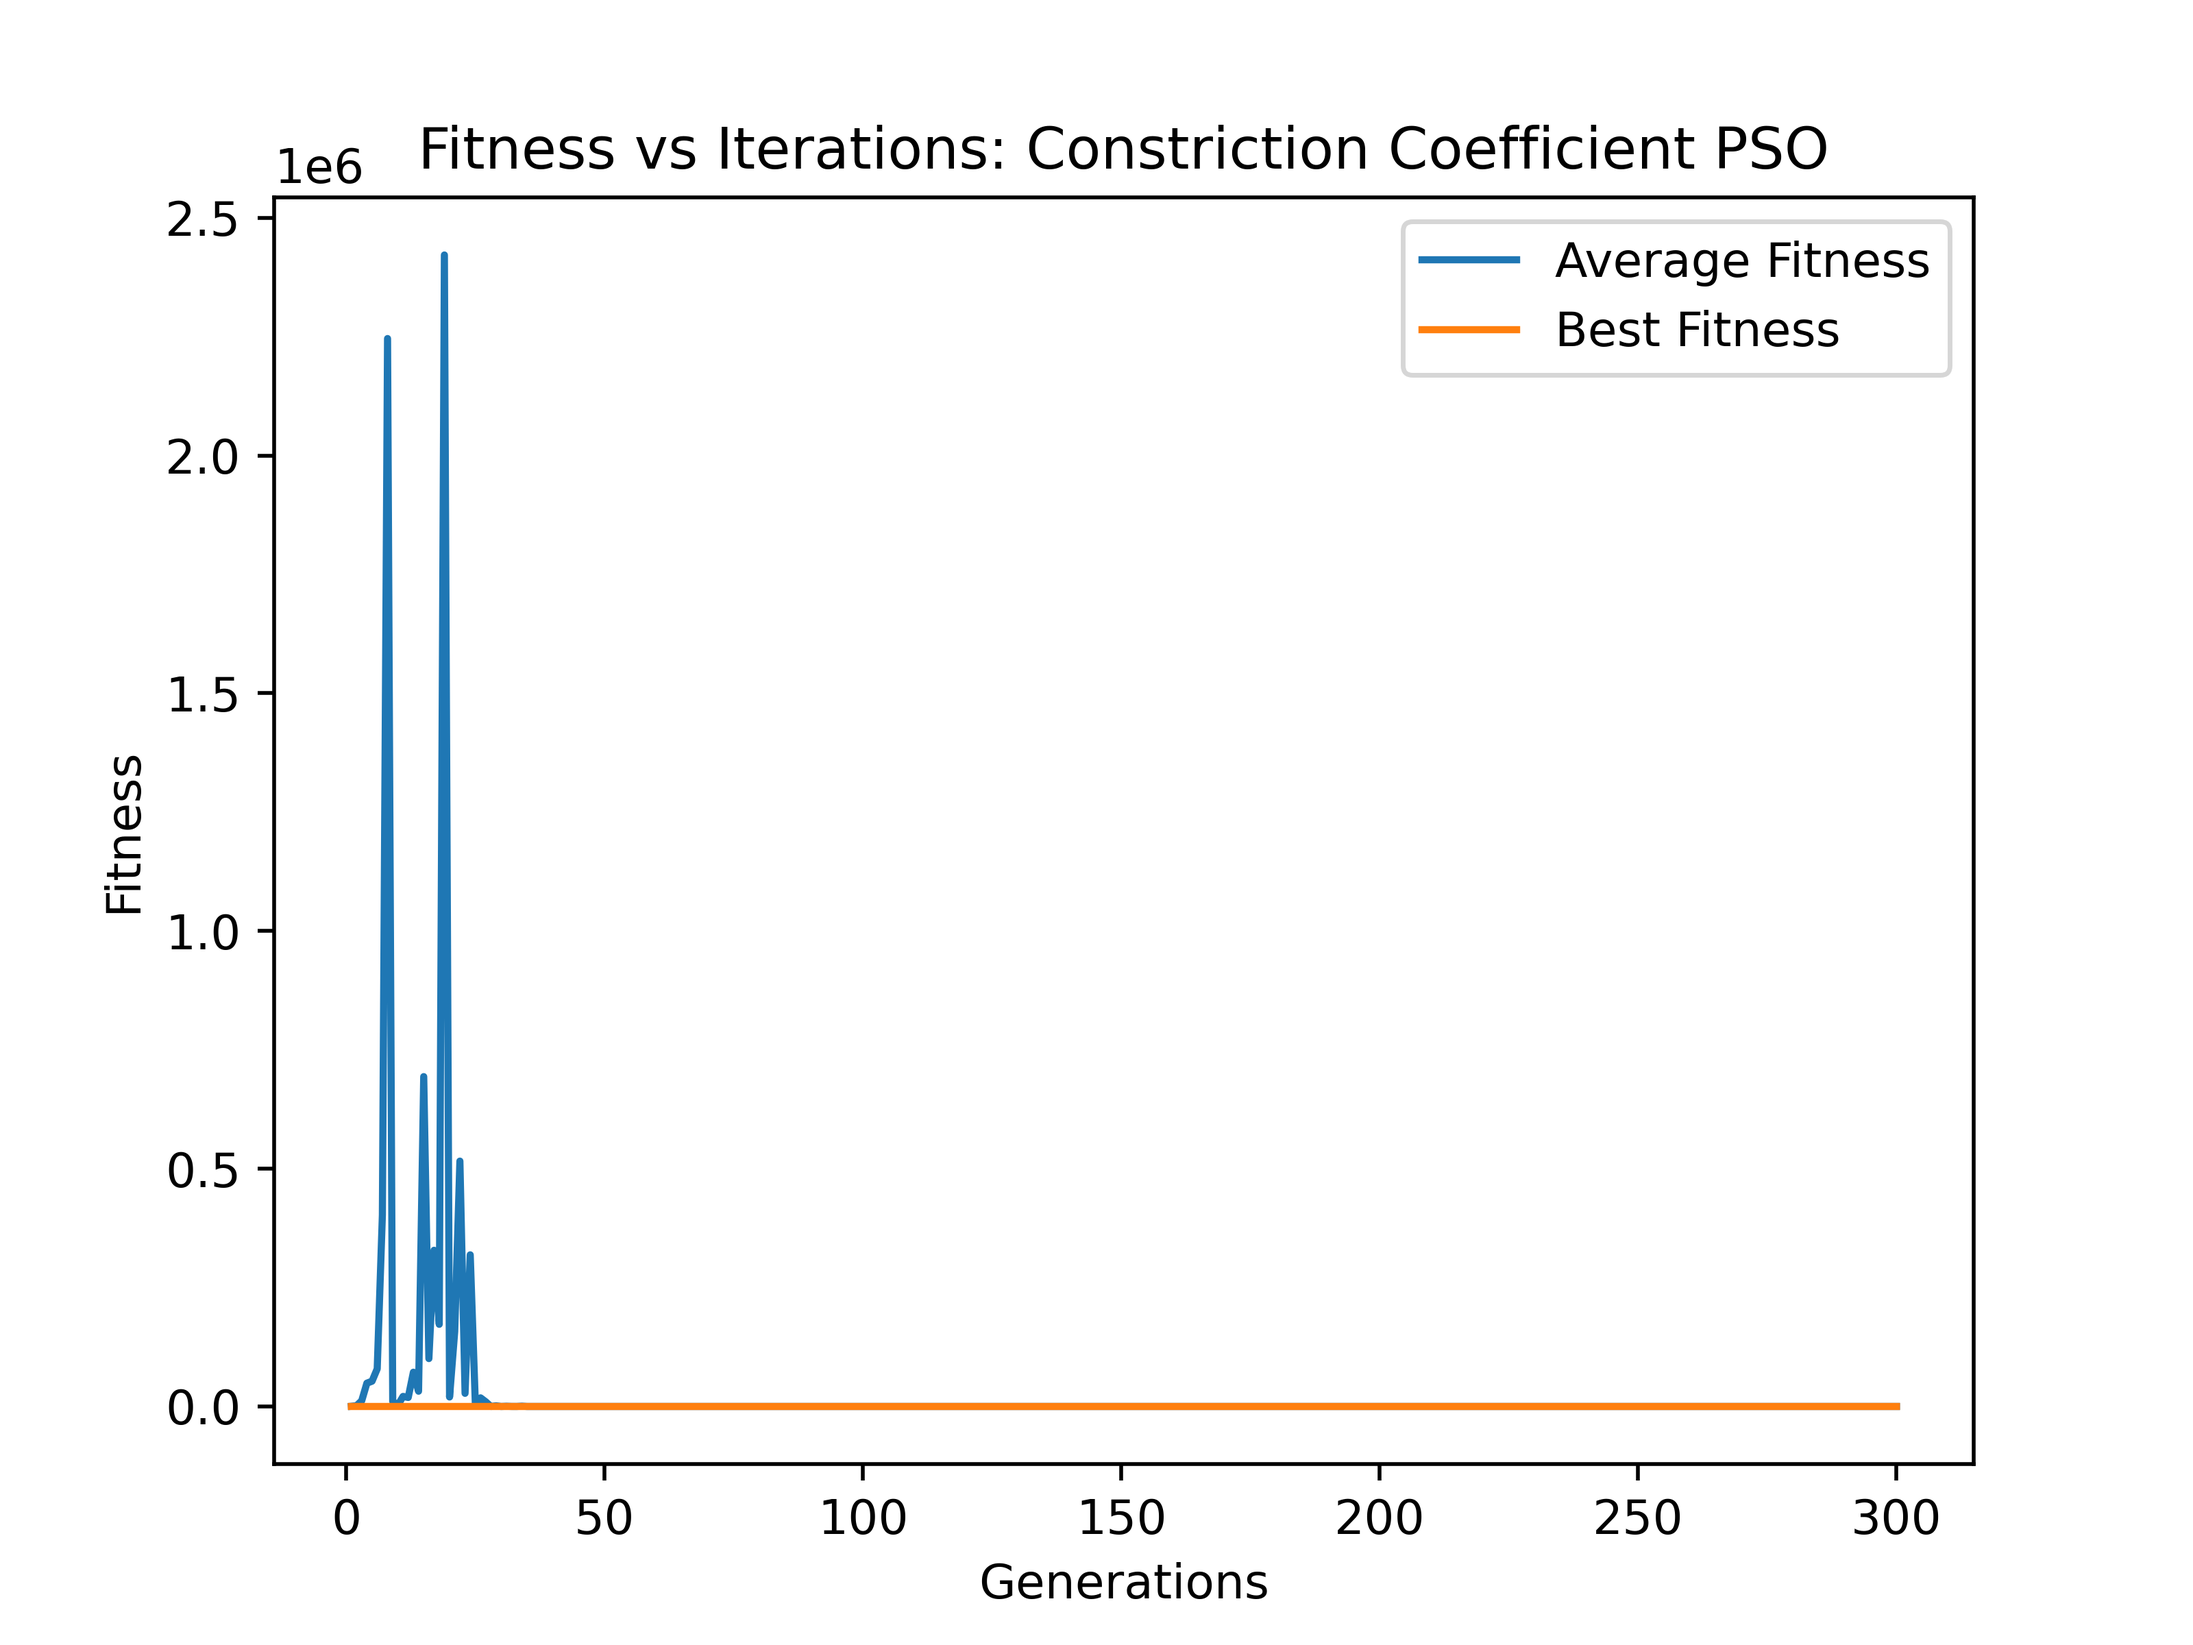
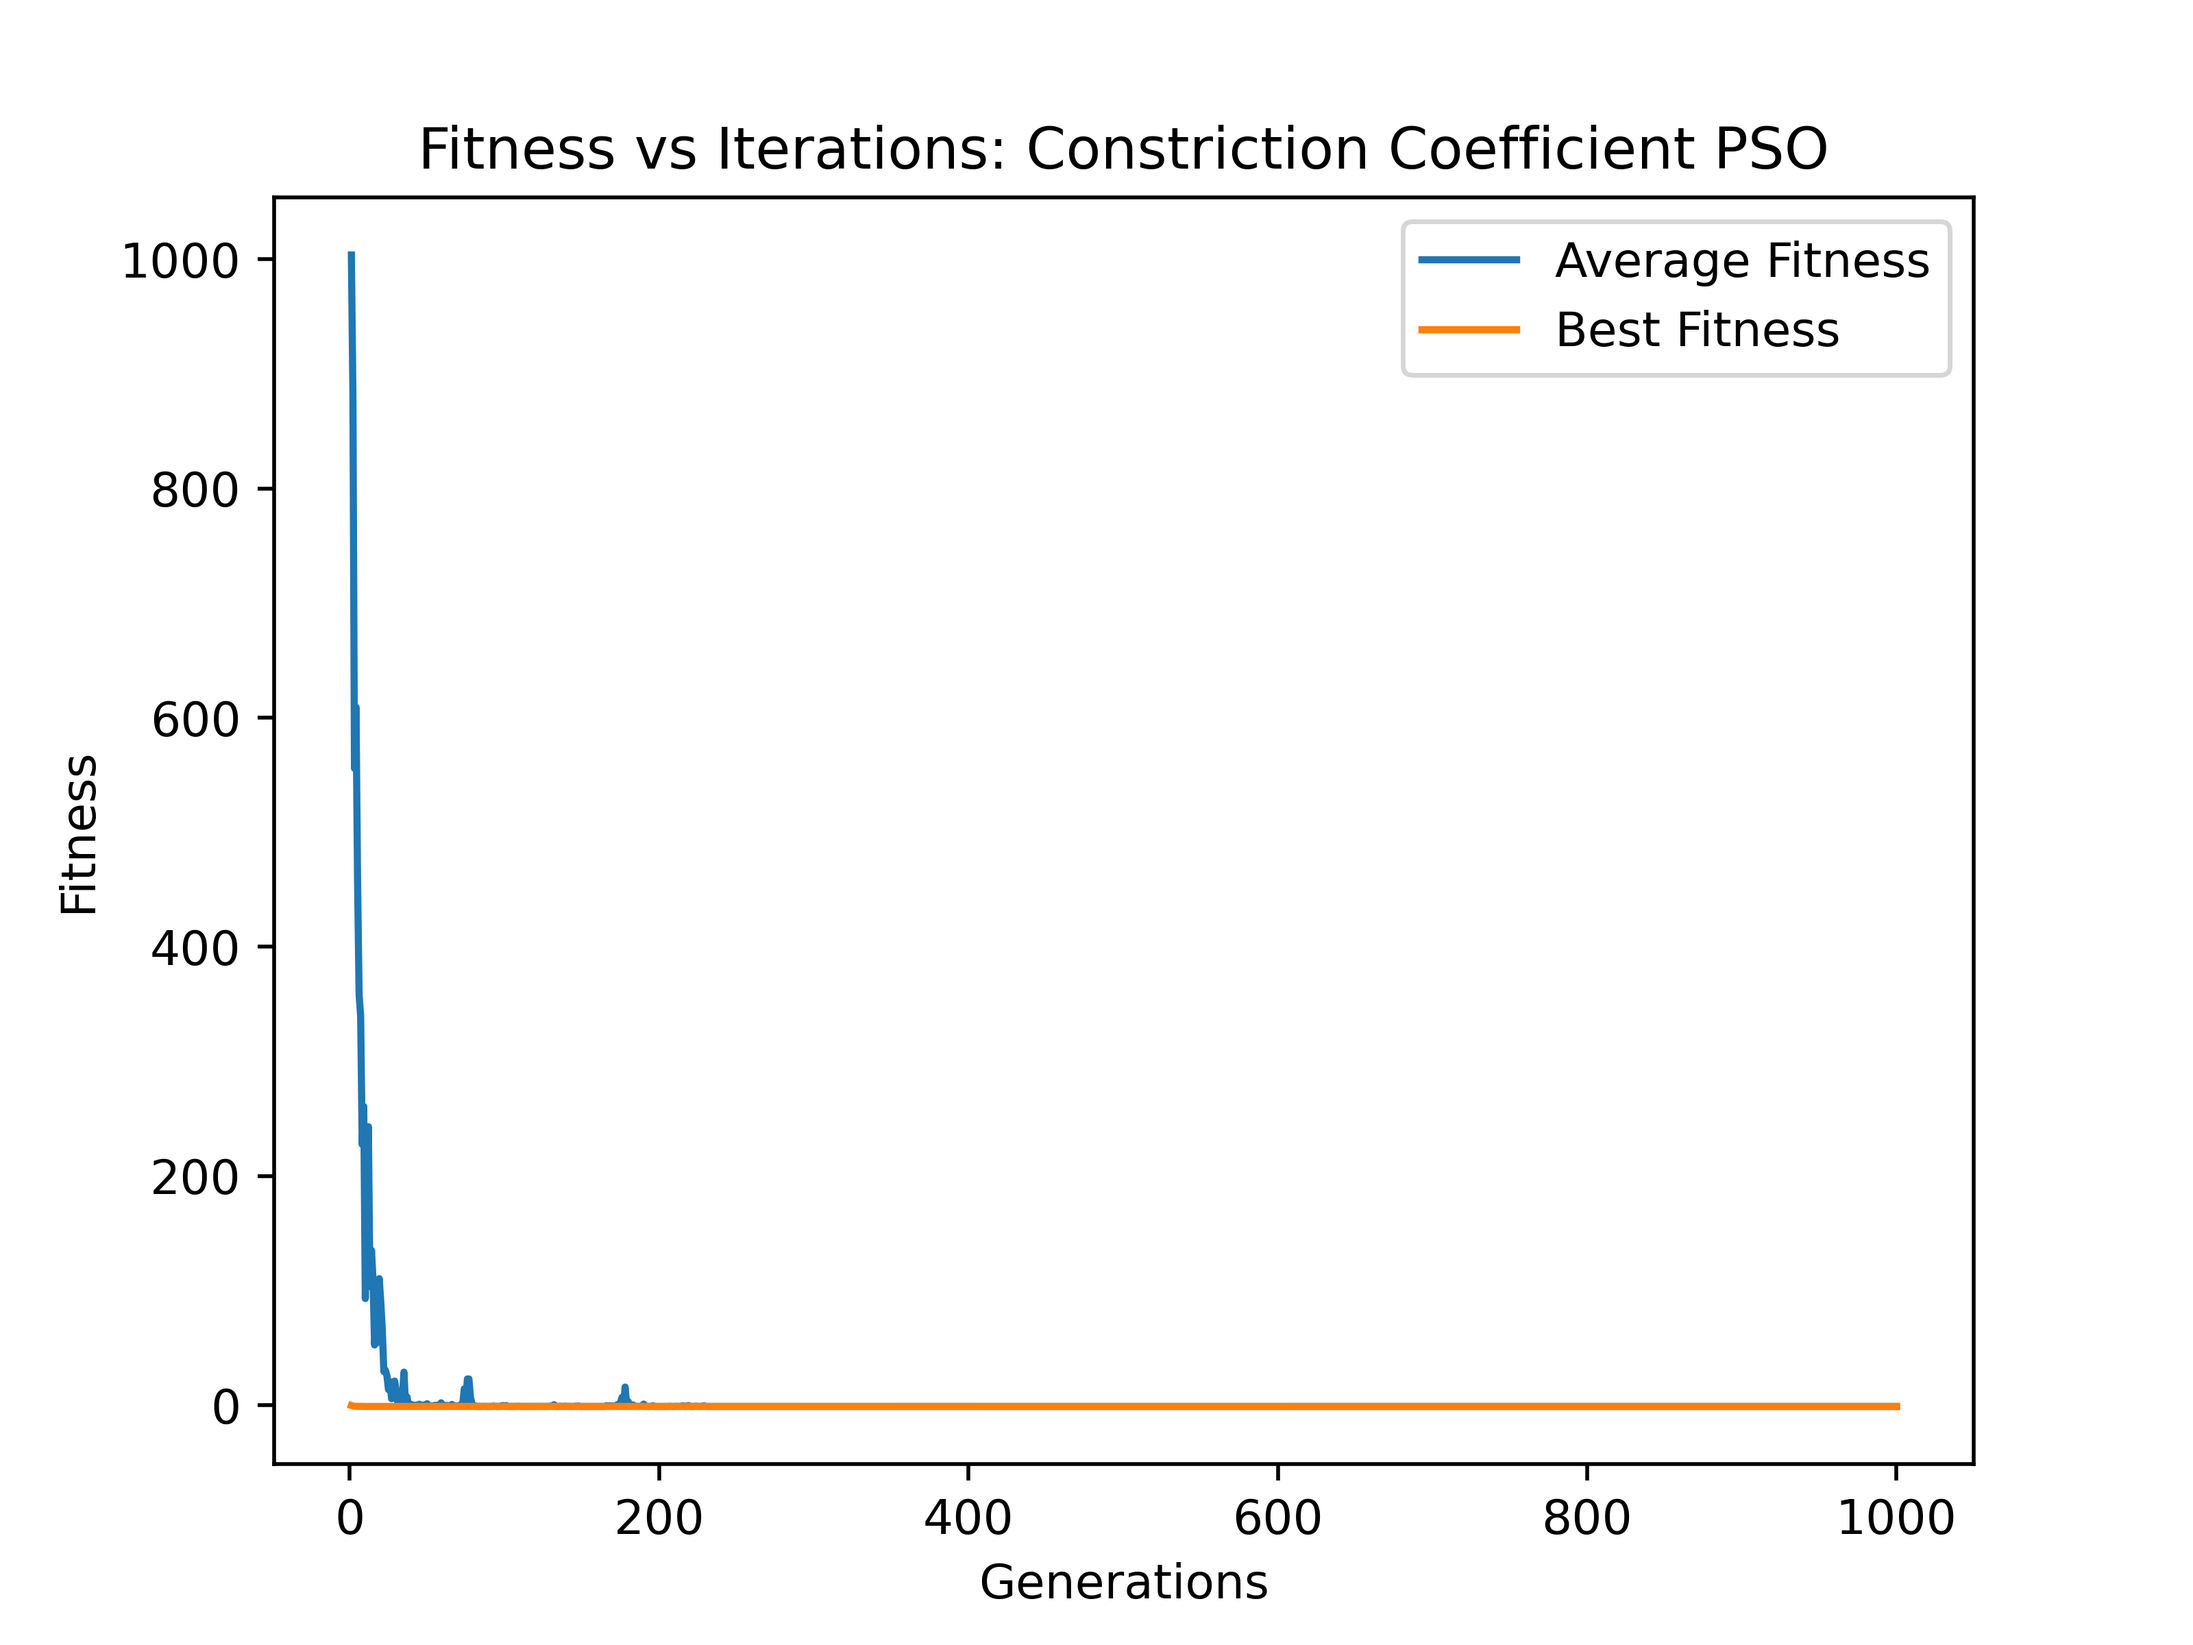
fix clipping

diff --git a/assignments/a4/q1/velocity_position_update.py b/assignments/a4/q1/velocity_position_update.py
@@ -12,9 +12,13 @@ import math
 # TODO: pass in range
 
 
-def bound(pos, x_range=[-5, -5], y_range=[5, 5]):
-    # return np.clip(x_range, x_range, y_range)
-    return pos
+def bound(v, pos, min_r=[-5, -5], max_r=[5, 5]):
+    new_pos = np.clip(pos, min_r, max_r)
+    # return v, new_pos
+    if new_pos[0] != pos[0] or new_pos[1] != pos[1]:
+        return 0, new_pos
+    else:
+        return v, pos
 
 
 def inertia_velocity(
@@ -28,7 +32,7 @@ def inertia_velocity(
                 + c1*r1*(p_best - p_pos) \
                 + c2*r2*(global_best - p_pos)
             n_position = p_pos + n_velocity
-            return n_velocity, bound(n_position)
+            return bound(n_velocity, n_position)
         return f2
     return f1
 
@@ -46,7 +50,7 @@ def constriction_velocity(
                             + c1*r1*(p_best - p_pos)
                             + c2*r2*(global_best - p_pos))
             n_position = p_pos + n_velocity
-            return n_velocity, bound(n_position)
+            return bound(n_velocity, n_position)
         return f2
     return f1
 
@@ -61,7 +65,7 @@ def simple_velocity(
                 + c1*r1*(p_best - p_pos) \
                 + c2*r2*(global_best - p_pos)
             n_position = p_pos + n_velocity
-            return n_velocity, bound(n_position)
+            return bound(n_velocity, n_position)
         return f2
     return f1
 
@@ -93,6 +97,6 @@ def guaranteed_convergence_velocity(
             r2 = np.random.uniform()
             n_velocity = w*p_v + rho*(1-2*r2)
             n_position = global_best + w*p_v + rho*(1-2*r2)
-            return n_velocity, bound(n_position)
+            return bound(n_velocity, n_position)
         return f2
     return f1

diff --git a/assignments/a4/q1/run.py b/assignments/a4/q1/run.py
@@ -167,6 +167,6 @@ def q_one_four():
     print(f"\t best x,y: {g_best[0]} {g_best[1]}")
 
 
-# for fn in [q_one_one, q_one_two, q_one_three, q_one_four]:
-#     fn()
-q_one_four()
+for fn in [q_one_one, q_one_two, q_one_three, q_one_four]:
+    fn()
+# q_one_four()
